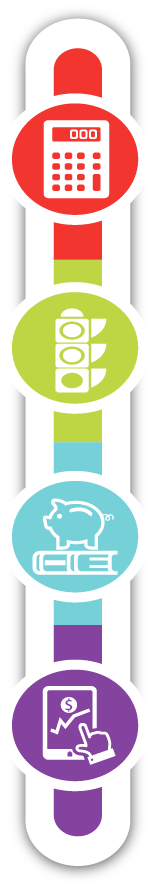
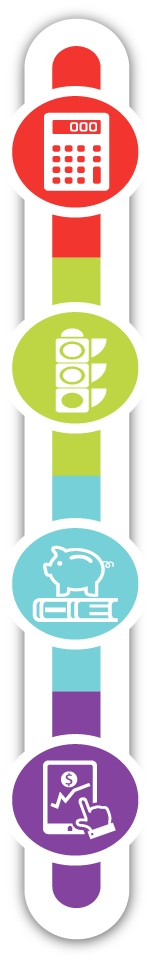
Menú imagen de fondo

diff --git a/css/estilos.css b/css/estilos.css
@@ -117,8 +117,8 @@ body{
 .itemMenu{
     background: rgba(255, 255, 255, 0.9) !important; 
     border-radius:15em !important;
-    margin-top: 0.6em !important;
-    margin-left: 0.7em !important;
+    margin-top: 0.5em !important;
+    margin-left: 0.4em !important;
     height: 55px !important;
     width: 9% !important;
 }
